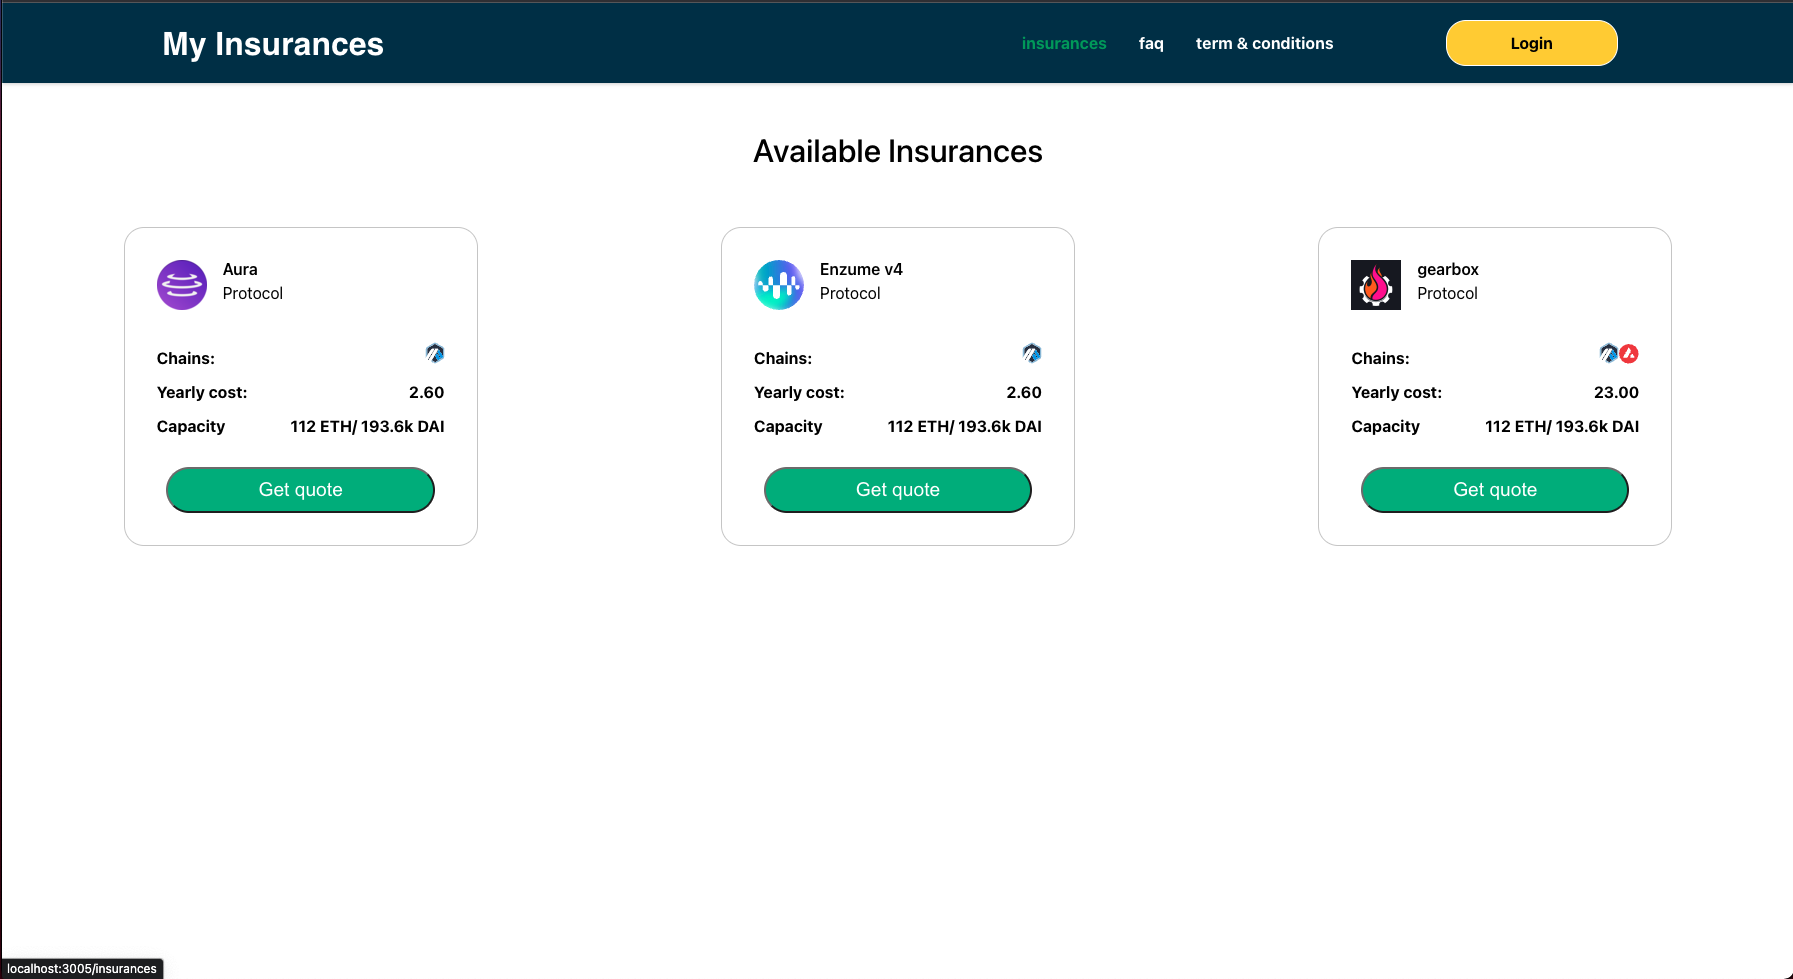
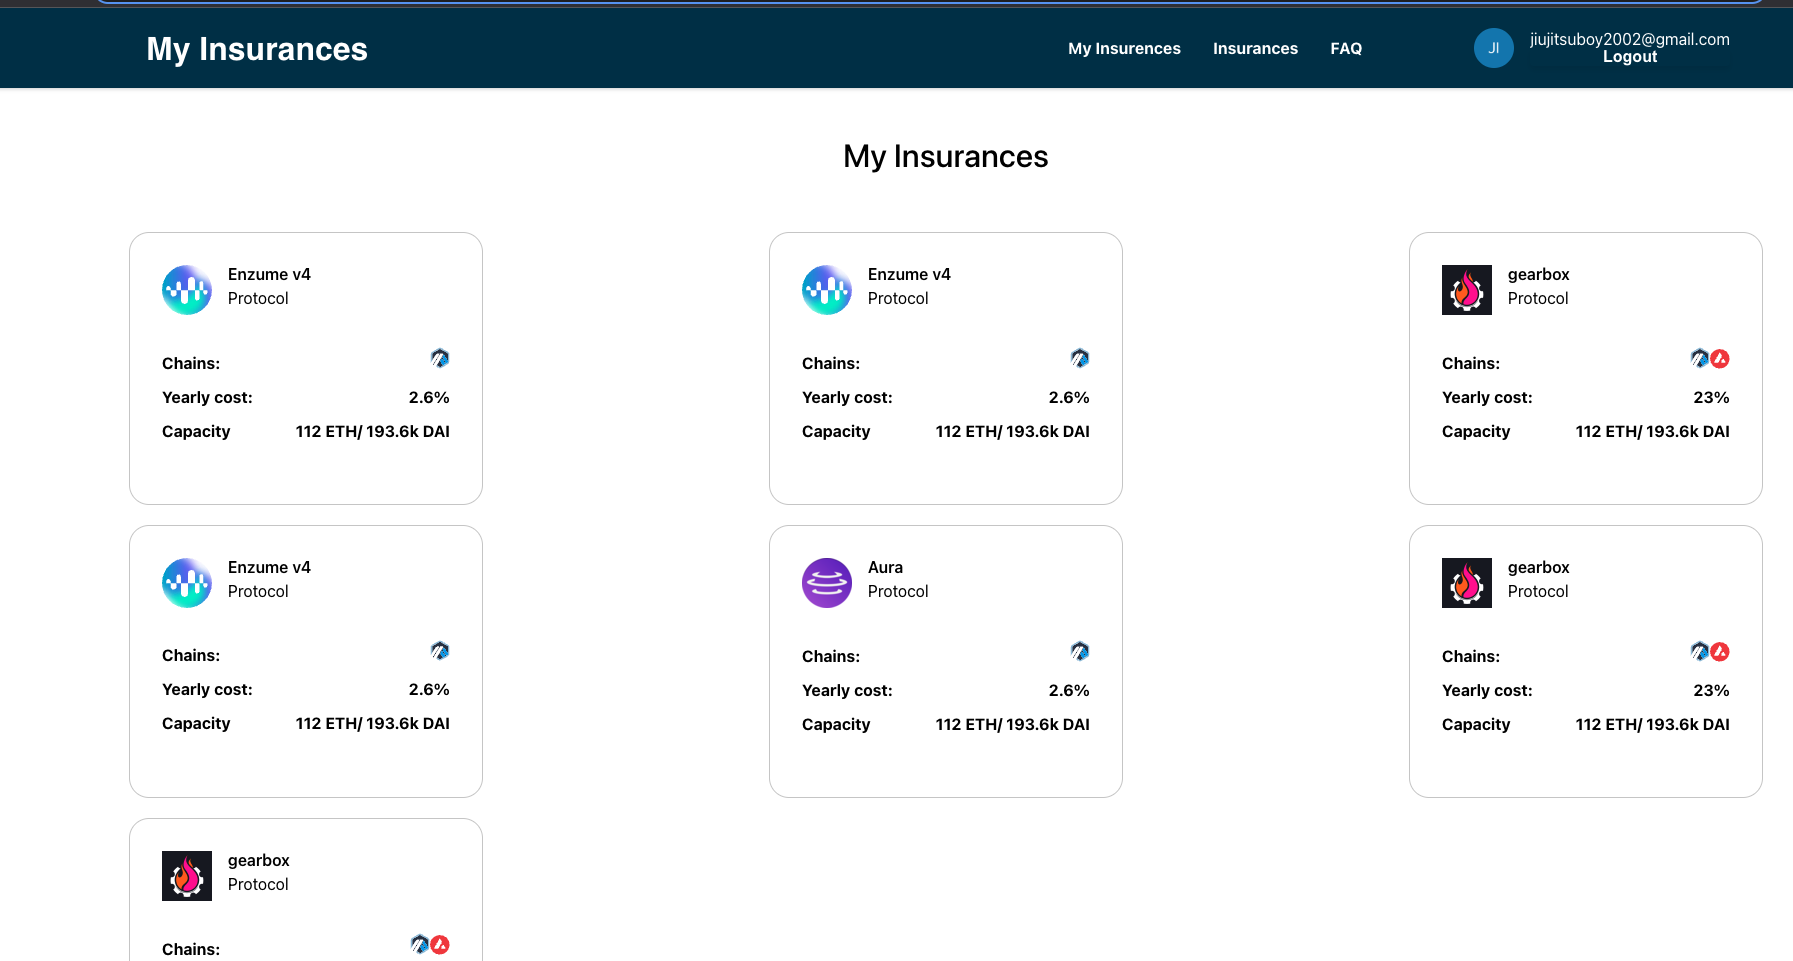
ui - fixes and images

diff --git a/web/src/components/Insurance/Insurance.js b/web/src/components/Insurance/Insurance.js
@@ -7,40 +7,38 @@ import UserContext from "../../store/auth-context";
 const Insurance = ({ insurance, isBuying, period, amount, hideButton }) => {
   const navigate = useNavigate();
   const userContext = useContext(UserContext);
-  const [disable, setDisable] = useState(false)
+  const [disable, setDisable] = useState(false);
 
   const { id, name, logo, cost, capacity, chains } = insurance;
-  
-  let averageCost = +cost * (amount ? +amount : 1);
+  let averageCost = +cost;
 
   if (period) {
     const rate = period / 365;
     if (rate > 1) {
-      averageCost = cost - (cost * 0.5)
+      averageCost = cost - cost * 0.5;
     } else {
-      averageCost = cost + cost * (1 - rate)
+      averageCost = cost + cost * (1 - rate);
     }
   }
 
-  averageCost = averageCost.toFixed(2)
-
+  averageCost = (averageCost * (amount ? +amount : 1)).toFixed(2);
 
   const getQuoteHandler = () => {
     navigate(`/insurances-details/${id}`);
   };
 
-  const getToPaymentHandler = async() => {
-    setDisable(true)
-    const curruntInsurance = {insurance, period, amount}
-    
-    userContext.storeInsuranceToBuy(curruntInsurance)
+  const getToPaymentHandler = async () => {
+    setDisable(true);
+    const curruntInsurance = { insurance, period, amount, averageCost };
+
+    userContext.storeInsuranceToBuy(curruntInsurance);
     navigate("/checkout-payment");
   };
 
-  useEffect(()=>{
-    setDisable(period<1 || amount<1)
+  useEffect(() => {
+    setDisable(period < 1 || amount < 1);
     // eslint-disable-next-line react-hooks/exhaustive-deps
-  },[period,amount])
+  }, [period, amount]);
 
   return (
     <div className={classes.container}>
@@ -66,22 +64,34 @@ const Insurance = ({ insurance, isBuying, period, amount, hideButton }) => {
       </div>
       <div className={classes.features}>
         <label>Yearly cost:</label>
-        <label>{averageCost}</label>
+        <label>{cost}%</label>
       </div>
+      {isBuying && (
+        <div className={classes.features}>
+          <label>Your pay:</label>
+          <label>{averageCost}</label>
+        </div>
+      )}
       <div className={classes.features}>
         <label>Capacity</label>
         <label>{capacity}</label>
       </div>
       <div className={classes.button_container}>
-        {!hideButton ? isBuying ? (
-          <button className={classes.button} onClick={getToPaymentHandler} disabled={disable}>
-            Purchase
-          </button>
-        ) : (
-          <button className={classes.button} onClick={getQuoteHandler}>
-            Get quote
-          </button>
-        ):null}
+        {!hideButton ? (
+          isBuying ? (
+            <button
+              className={classes.button}
+              onClick={getToPaymentHandler}
+              disabled={disable}
+            >
+              Purchase
+            </button>
+          ) : (
+            <button className={classes.button} onClick={getQuoteHandler}>
+              Get quote
+            </button>
+          )
+        ) : null}
       </div>
     </div>
   );

diff --git a/web/src/pages/payments/StripeCheckout.js b/web/src/pages/payments/StripeCheckout.js
@@ -50,8 +50,7 @@ const CheckoutForm = () => {
       if (
         responseCreatePaymentIntent.success &&
         responseCreatePaymentIntent.data.createPaymentIntent
-      ) {
-        console.log("paymentintet: ", responseCreatePaymentIntent.data.createPaymentIntent.clientSecret)
+      ) {        
         setClientSecret(
           responseCreatePaymentIntent.data.createPaymentIntent.clientSecret
         );
@@ -134,7 +133,7 @@ const CheckoutForm = () => {
           <article>
             <p>
               <b>Your total price is: </b>
-              {insurance.amount}
+              {insurance.averageCost}
             </p>
             <p>
               <b>Test Card Number:</b> 4242 4242 4242 4242
@@ -178,9 +177,6 @@ const CheckoutForm = () => {
 };
 
 const StripeCheckout = () => {
-  const userContext = useContext(UserContext);
-  const insurance = userContext.insurance;
-  console.log("insurance: ", insurance);
   return (
     <div className="centered" style={{height:"50vh"}}>
       <Elements stripe={promise}>

diff --git a/web/src/components/Layout/MainNavigation.js b/web/src/components/Layout/MainNavigation.js
@@ -8,7 +8,7 @@ const MainNavigation = () => {
   const { isAuthenticated, loginWithRedirect, user, logout, isLoading } = useAuth0();
   
   return (
-    <header className={classes.header}>
+    <header className={classes.header} style={{minWidth:"1280px"}}>
       <div className={classes.logo}>
         <Link to="/">My Insurances</Link>
       </div>

diff --git a/web/src/pages/insurances/MyInsurances.js b/web/src/pages/insurances/MyInsurances.js
@@ -17,7 +17,6 @@ const MyInsurances = () => {
     let userId;
     // const token = await getAccessTokenSilently()
     const token = await userContext.getUserToken();
-    console.log("token: ", token);
     const resp = await getUserByName(name, token);
 
     if (resp.success && resp.data.getUserByName) {

diff --git a/web/src/components/Insurance/Insurance.module.css b/web/src/components/Insurance/Insurance.module.css
@@ -34,6 +34,14 @@
     font-weight: bold;
 }
 
+.features {
+    display: flex;
+    justify-content: space-between; 
+    align-items: flex-end;
+    margin-top: 1rem; 
+    font-weight: bold;    
+}
+
 .features_logo {
     width: 20px
 }

diff --git a/web/src/pages/home/Home.module.css b/web/src/pages/home/Home.module.css
@@ -7,6 +7,7 @@
     margin: auto;
     height: 86vh;
     color: white;
+    min-width:1200px;
 }
 
 .header_main {
